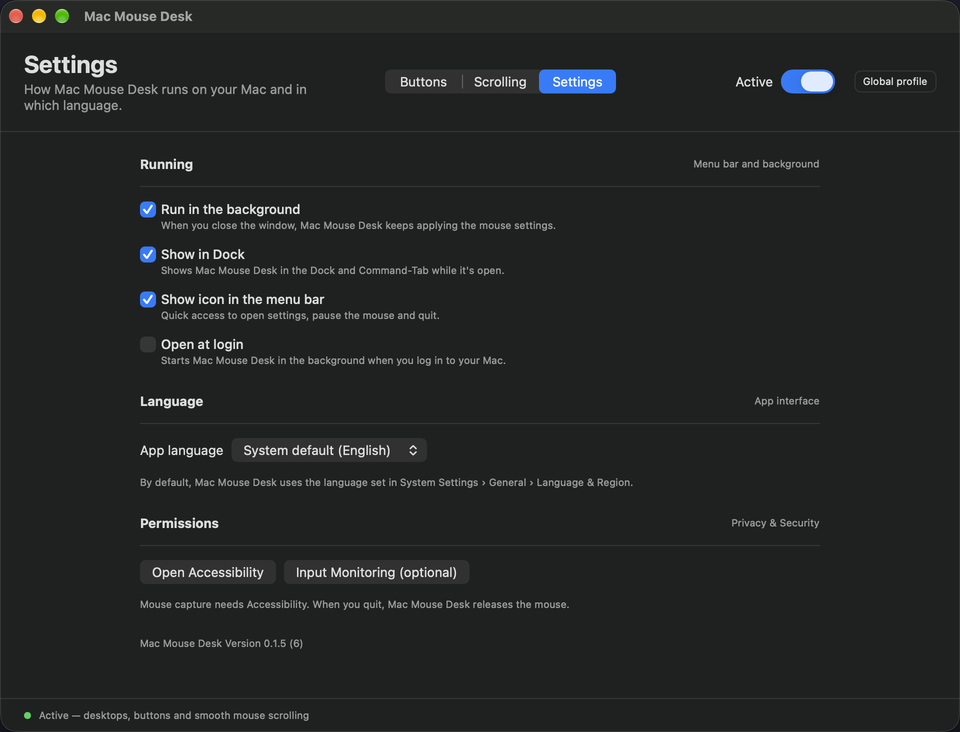
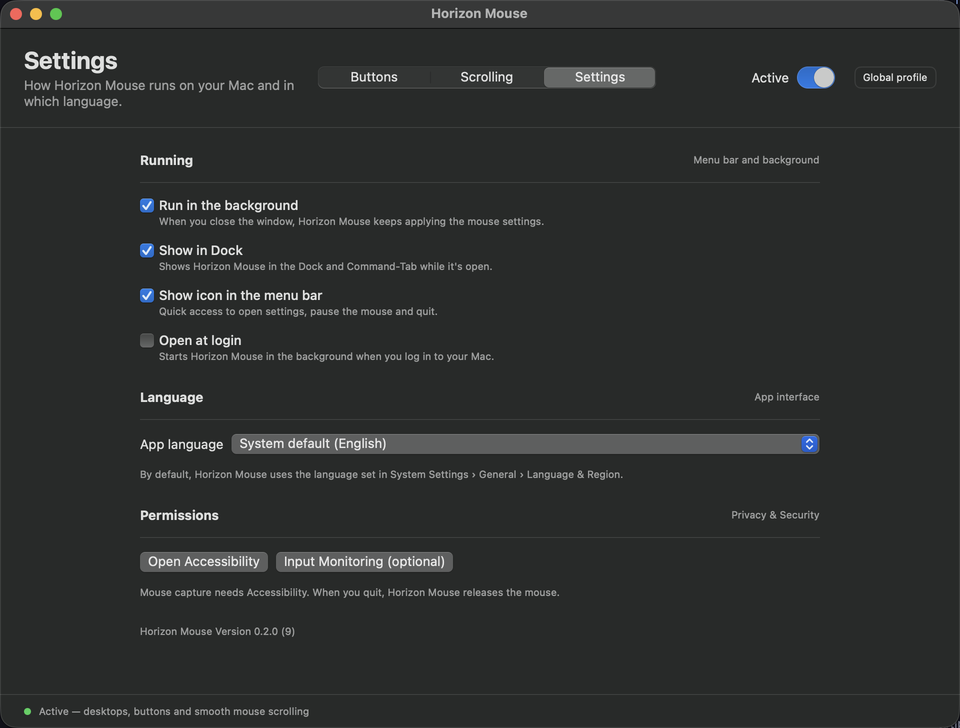
docs: refresh screenshots, demo GIF and social preview for Horizon Mouse
Also drop the outdated per-version reauthorization notice.

diff --git a/Sources/HorizonMouseApp/Views.swift b/Sources/HorizonMouseApp/Views.swift
@@ -57,7 +57,7 @@ struct RootView: View {
             Image(systemName: "exclamationmark.triangle.fill").foregroundStyle(.orange)
             VStack(alignment: .leading, spacing: 2) {
                 Text(L("Horizon Mouse doesn't have Accessibility yet")).fontWeight(.semibold)
-                Text(L("Without it, desktop switching, scrolling and mouse buttons stay off. Each newly installed version must be authorized again."))
+                Text(L("Without it, desktop switching, scrolling and mouse buttons stay off."))
                     .font(.caption).foregroundStyle(.secondary)
             }
             Spacer()
